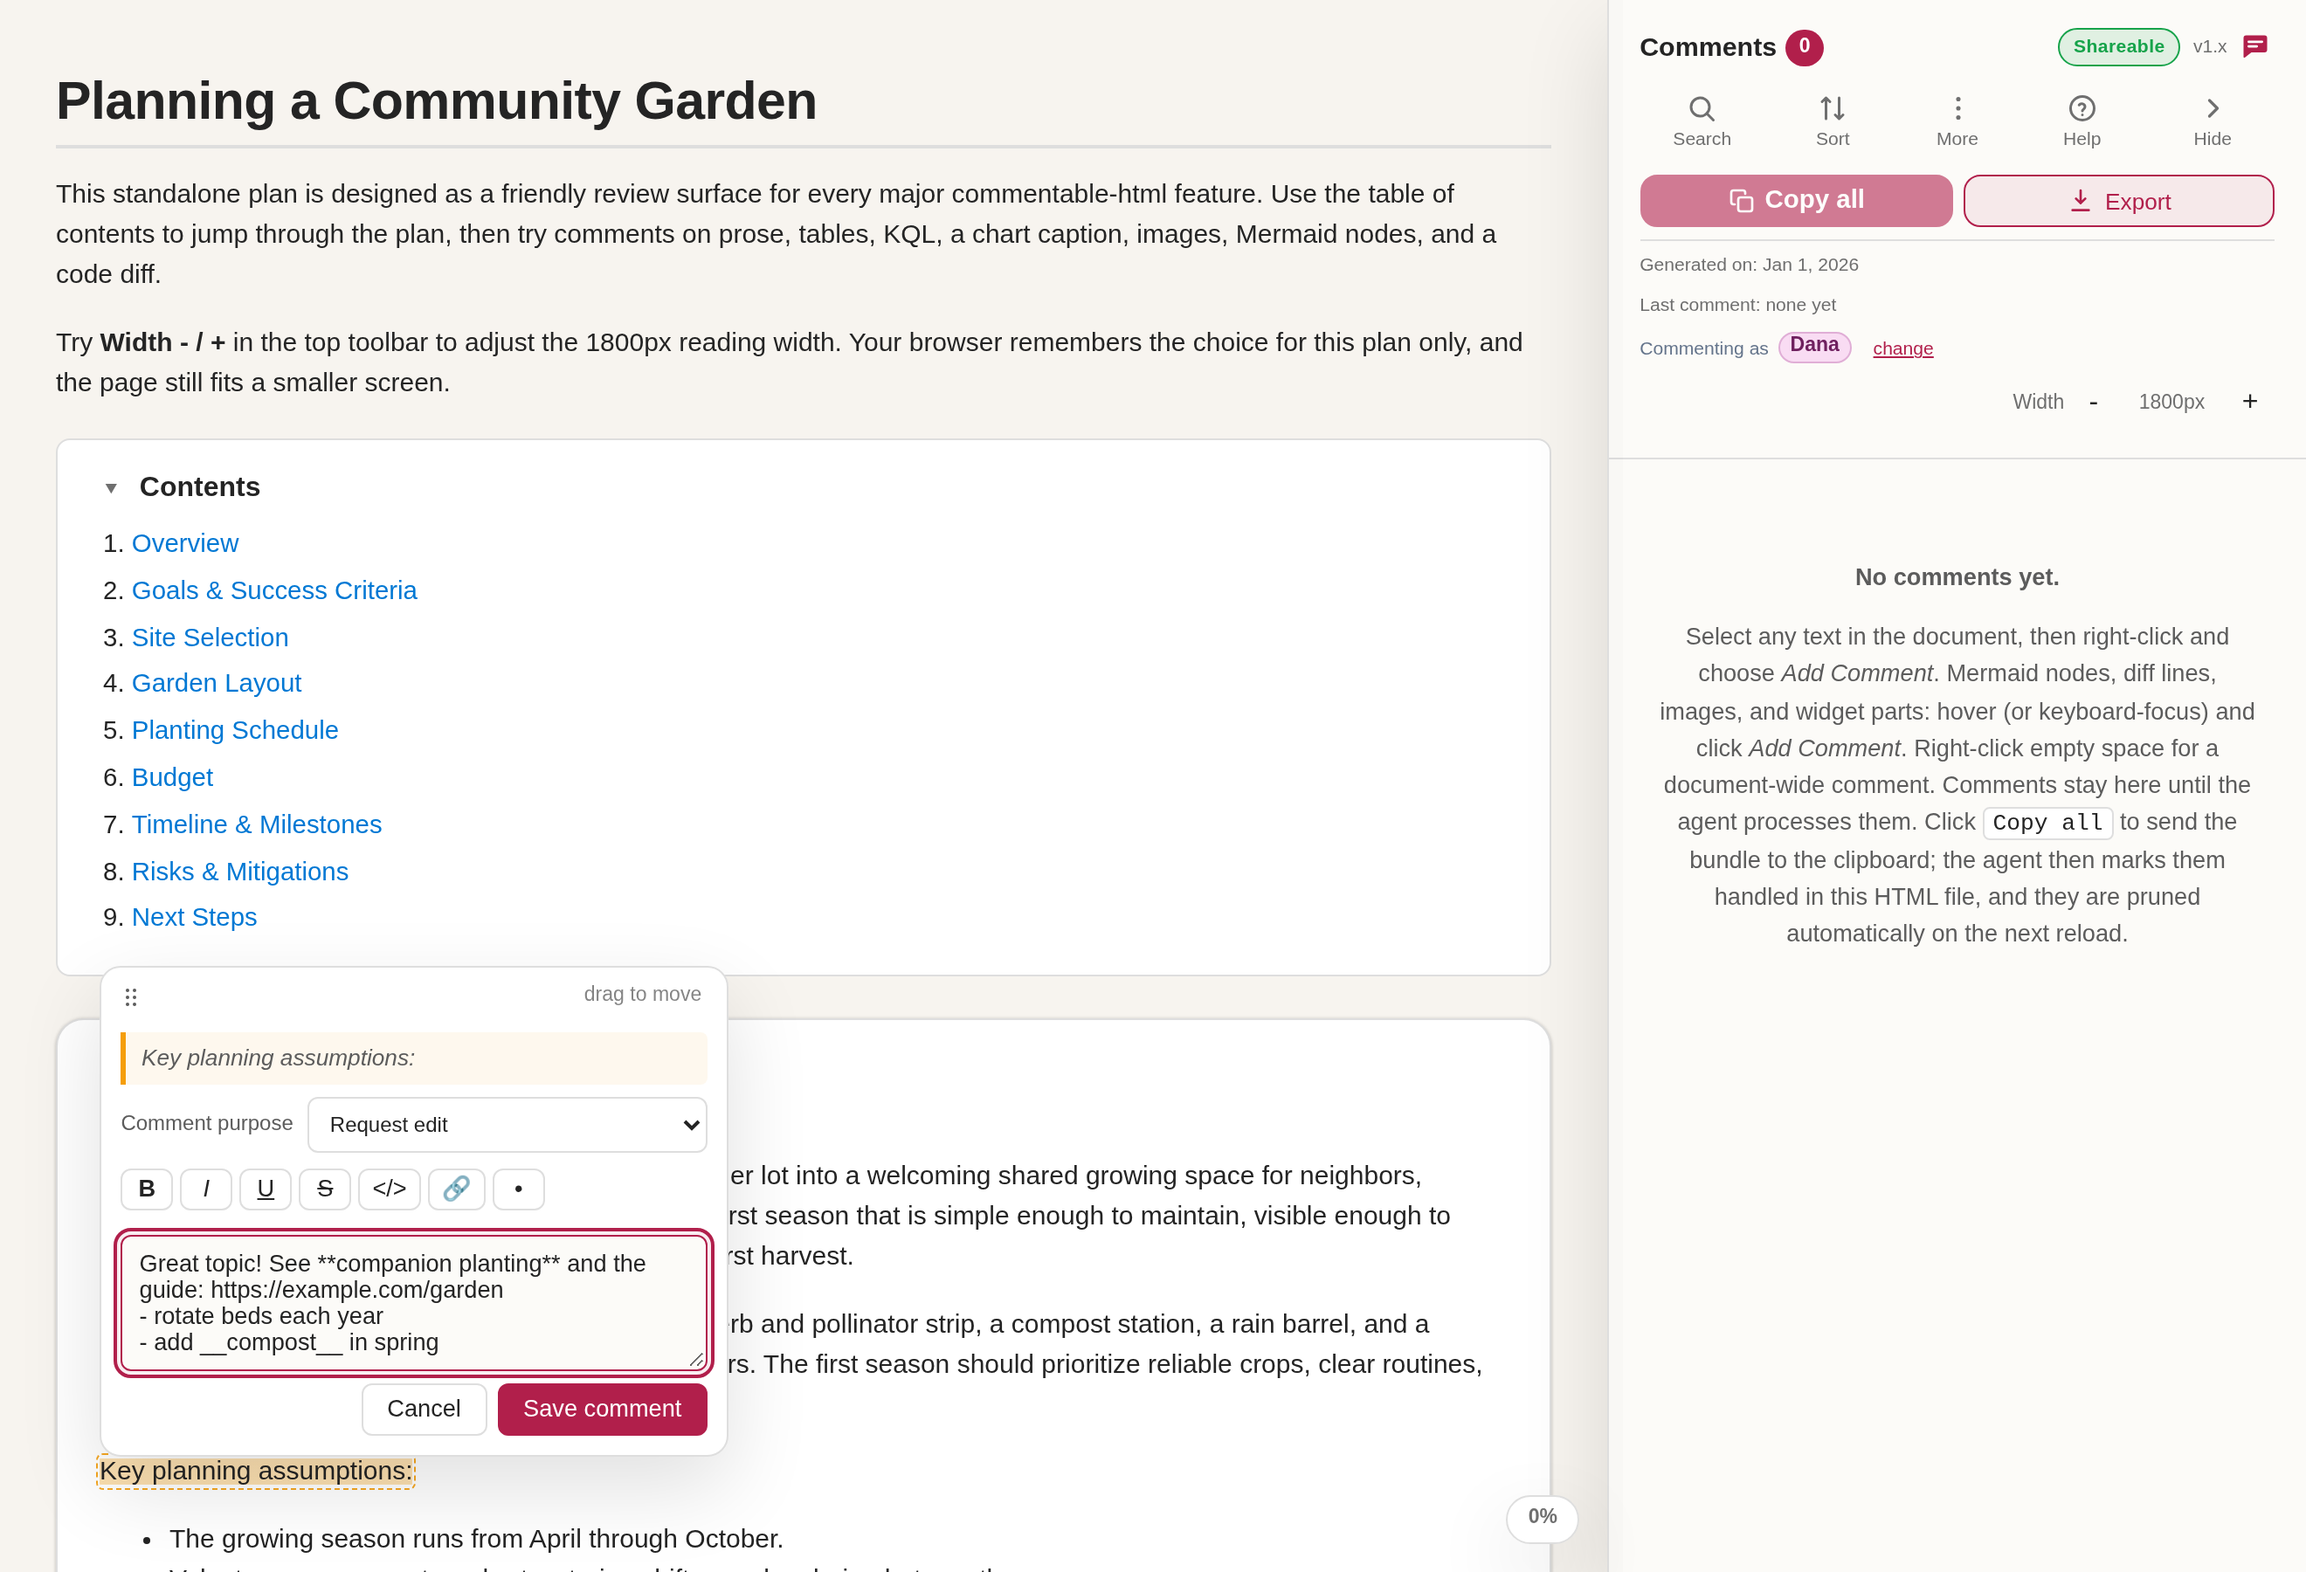
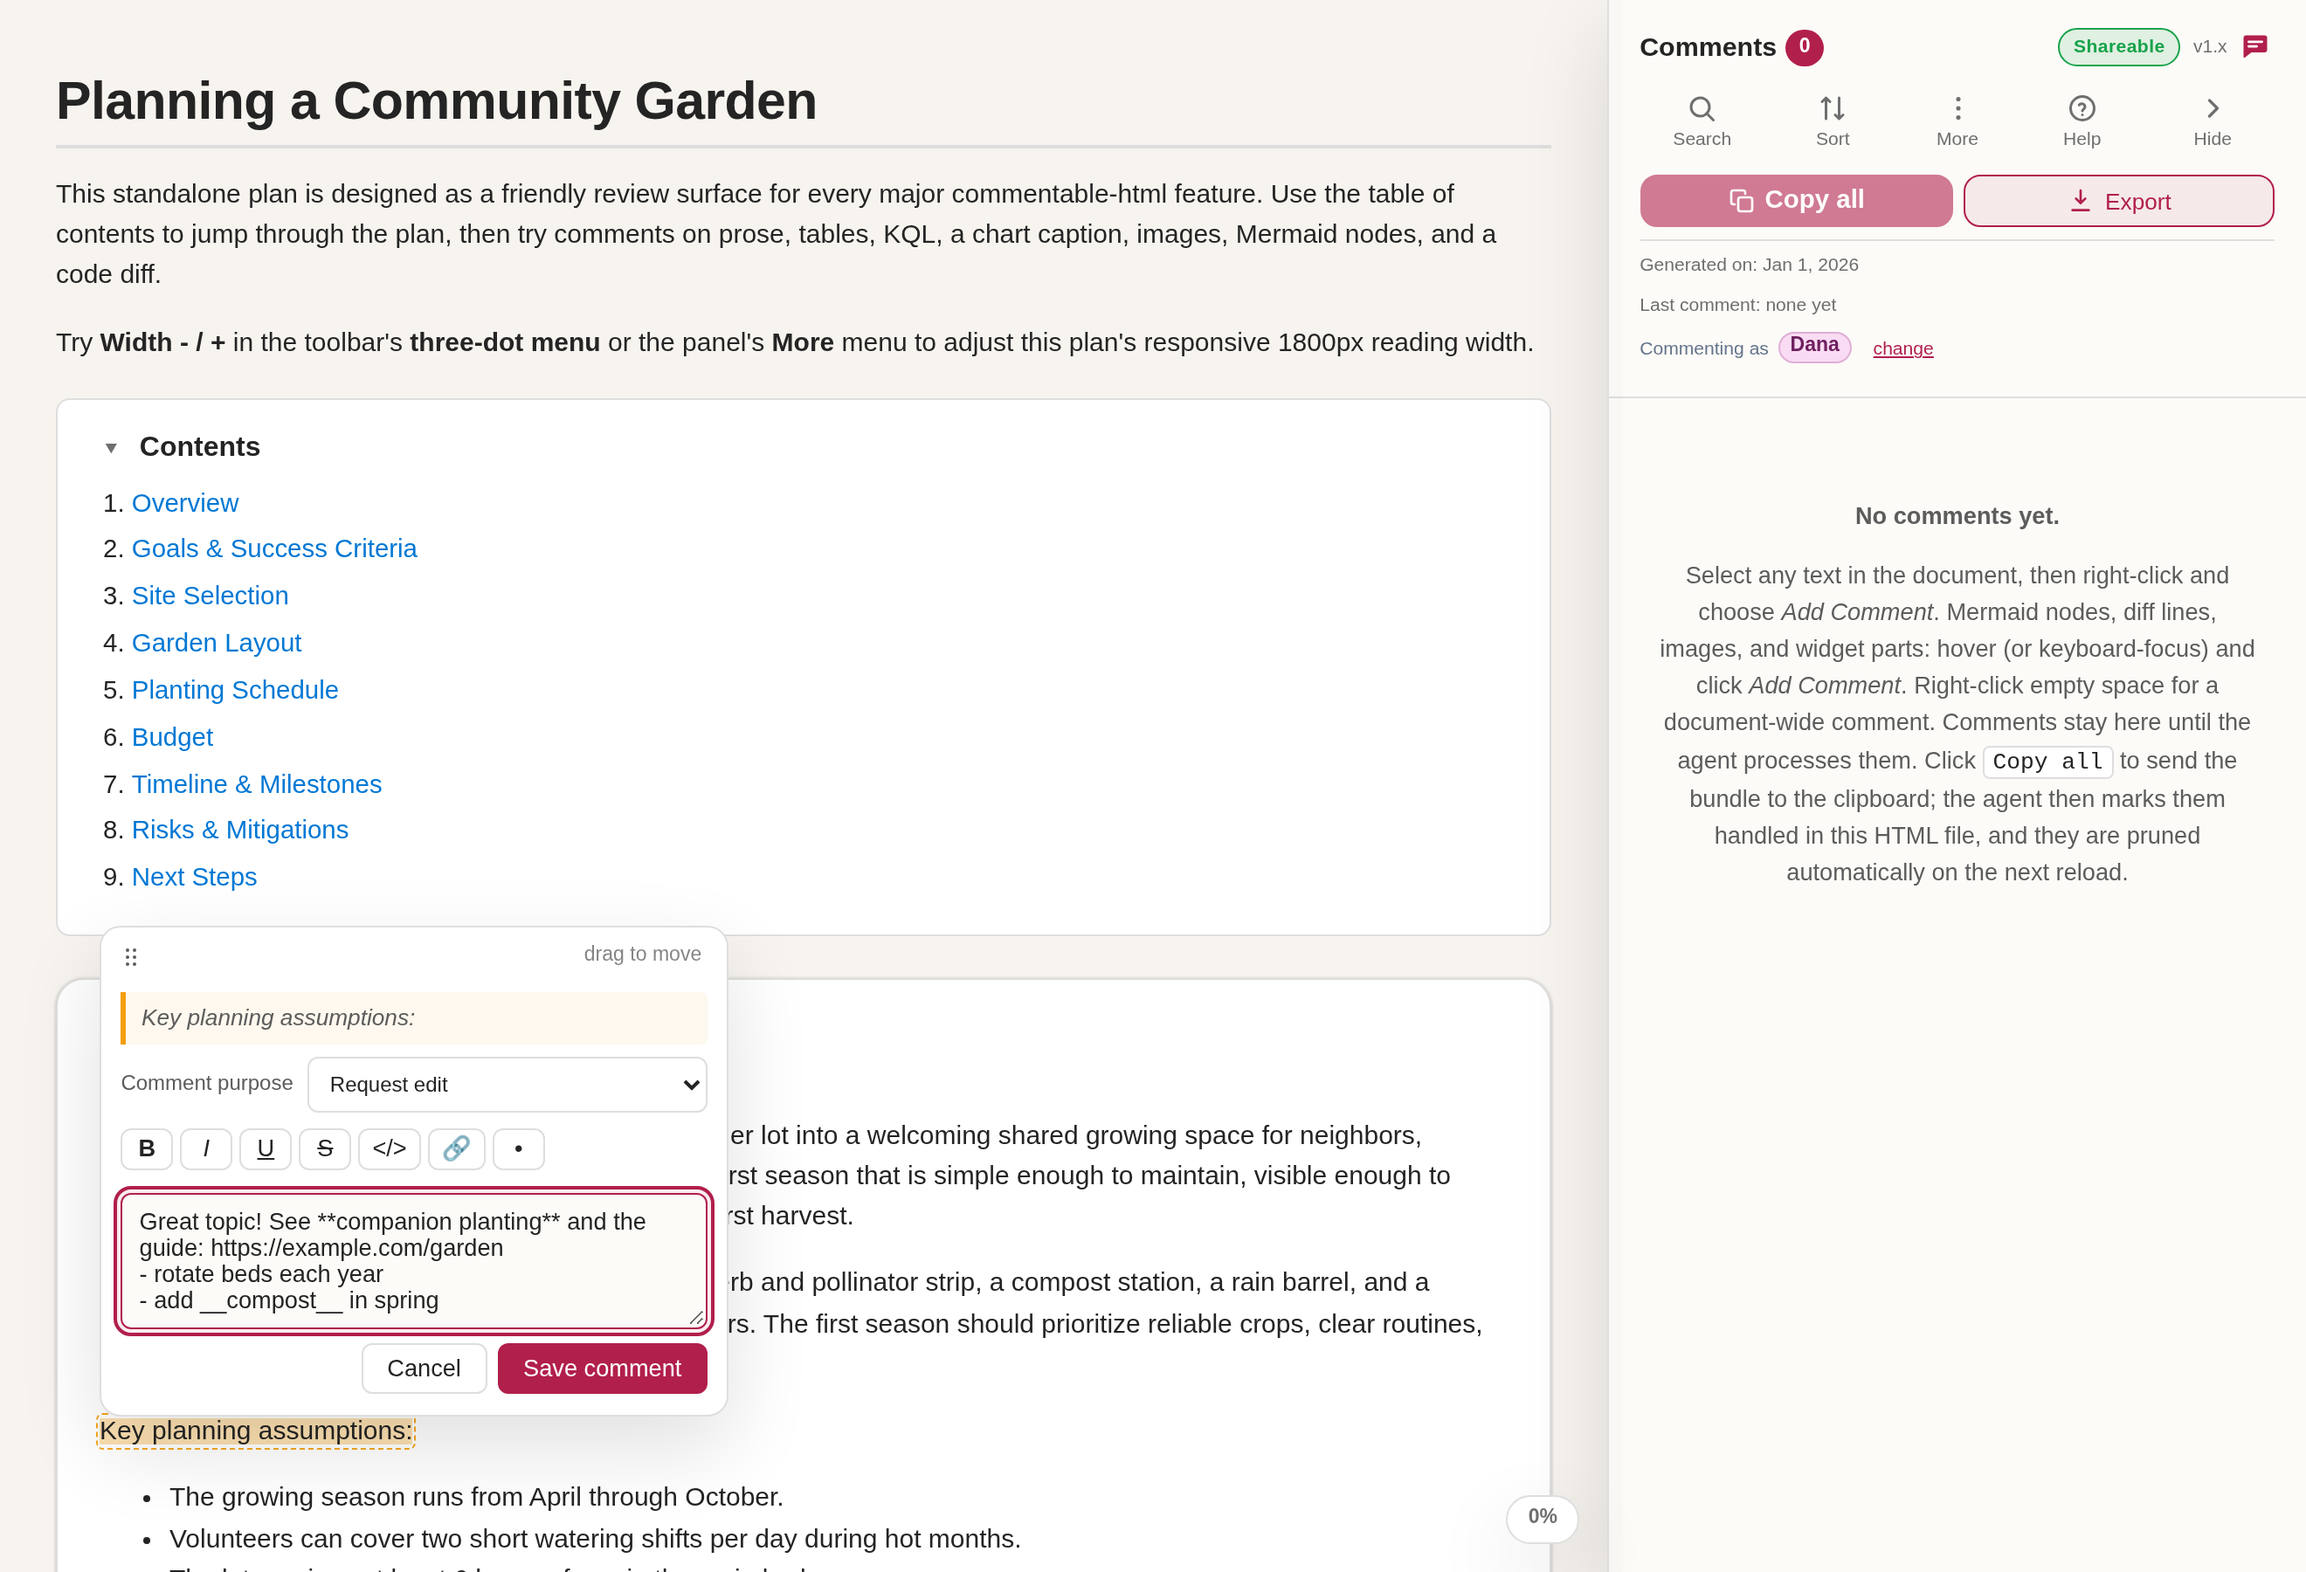
Refresh width-menu tutorial screenshots from pinned CI renderer
Copilot-Session: 8a7f62eb-842d-47a4-998d-410f942856df

diff --git a/site/dist/commentable-html/tutorial/index.html b/site/dist/commentable-html/tutorial/index.html
@@ -73,7 +73,7 @@
           <li>If the comments panel is not already open, click <strong>Comments</strong> in the floating toolbar (upper right). Once the panel is open the toolbar is hidden; close the panel with the <strong>Hide</strong> button at the top of the panel.</li>
           <li>Scroll through the plan once to see its sections and the in-page Contents list.</li>
           </ol>
-          <p><img src="assets/garden-01-top-light.png?v=307abe64a617" alt="The community garden plan open in a browser, with the Contents list and the floating toolbar" loading="lazy" /></p>
+          <p><img src="assets/garden-01-top-light.png?v=79665328896f" alt="The community garden plan open in a browser, with the Contents list and the floating toolbar" loading="lazy" /></p>
           <h3>2. Read the document-type bubble and version</h3>
           <ol>
           <li>In the sidebar header, look at the document-type bubble.</li>
@@ -88,8 +88,8 @@
           <li>Type a note, then click Save or press Ctrl+Enter.</li>
           <li>The selected text is highlighted and a card appears in the sidebar.</li>
           </ol>
-          <p><img src="assets/garden-05-composer.png?v=93784fb7c732" alt="The comment composer open on a selected phrase, with the quoted text and a note field" loading="lazy" /></p>
-          <p><img src="assets/garden-06-comment-saved.png?v=5cb11216a862" alt="The saved comment highlighted in the text with its card in the sidebar" loading="lazy" /></p>
+          <p><img src="assets/garden-05-composer.png?v=b4d88bf6cf50" alt="The comment composer open on a selected phrase, with the quoted text and a note field" loading="lazy" /></p>
+          <p><img src="assets/garden-06-comment-saved.png?v=09aeed17956b" alt="The saved comment highlighted in the text with its card in the sidebar" loading="lazy" /></p>
           <h3>4. Comment on a table cell</h3>
           <ol>
           <li>Go to <strong>Garden Layout</strong>.</li>
@@ -169,9 +169,9 @@
           <li>Wrap the current selection by clicking a toolbar button or pressing a shortcut: <code>Ctrl/Cmd+B</code> for <code>**bold**</code>, <code>Ctrl/Cmd+I</code> for <code>*italic*</code>, <code>Ctrl/Cmd+U</code> for <code>__underline__</code>, and <code>Ctrl/Cmd+K</code> to turn the selection into a link. Start a line with <code>- </code> for a bullet list, wrap text in backticks for inline code, and use <code>~~text~~</code> for strikethrough.</li>
           <li>Type or paste a bare <code>http(s)://</code> address and it becomes clickable on its own. Only <code>http</code>, <code>https</code>, and <code>mailto</code> links are made clickable; anything else stays plain text.</li>
           </ol>
-          <p><img src="assets/garden-15-format-toolbar.png?v=b2d35209c8e0" alt="The comment composer with its formatting toolbar above a note being written with bold text, a link, and a bullet list" loading="lazy" /></p>
+          <p><img src="assets/garden-15-format-toolbar.png?v=9e5ca808c5a1" alt="The comment composer with its formatting toolbar above a note being written with bold text, a link, and a bullet list" loading="lazy" /></p>
           <p>Once saved, the note renders its formatting in the sidebar card and the inline popover, while the stored note keeps the exact text you typed - so <strong>Copy all</strong> still hands the agent the raw markers.</p>
-          <p><img src="assets/garden-16-rich-card.png?v=71780928c7b3" alt="A saved comment card in the sidebar showing bold text, a clickable link, and a bullet list" loading="lazy" /></p>
+          <p><img src="assets/garden-16-rich-card.png?v=1812b15ffb42" alt="A saved comment card in the sidebar showing bold text, a clickable link, and a bullet list" loading="lazy" /></p>
           <h3>13. Track review progress per section</h3>
           <p>Every section heading carries a small review badge so you can mark sections as you finish them and see at a glance what is left.</p>
           <ol>
@@ -194,7 +194,7 @@
           <li>Click the <strong>Search</strong> button in the header ribbon to reveal the search field (it is hidden by default); type to filter the list to comments whose <strong>note</strong> matches your query, and the field shows how many of the total are shown. Click <strong>Search</strong> again to hide it, or the clear (X) button to empty it.</li>
           <li>Use the <strong>Sort</strong> button in the header ribbon to cycle the order: document position, then newest-first, then oldest-first, then back to document order; its icon and tooltip reflect the current state.</li>
           </ol>
-          <p><img src="assets/garden-13-comment-search.png?v=c50dd2432286" alt="The comments panel filtered by a search query, with the sort controls and a shown-of-total count" loading="lazy" /></p>
+          <p><img src="assets/garden-13-comment-search.png?v=07f2878eac06" alt="The comments panel filtered by a search query, with the sort controls and a shown-of-total count" loading="lazy" /></p>
           <h3>16. Set your name and reply in threads</h3>
           <p>When you pass a document back and forth with someone else, attribute each comment and hold a conversation in threads.</p>
           <ol>
@@ -204,7 +204,7 @@
           <li>Deleting the original comment removes the whole thread; deleting a single reply removes only that reply.</li>
           <li><strong>Copy all</strong>, Markdown export, and the print appendix keep threads together: each is emitted as an initial comment followed by its labelled replies, so the agent reads the refinements in context.</li>
           </ol>
-          <p><img src="assets/garden-14-thread.png?v=2b91bf3241d8" alt="The comments panel showing the Commenting as control and a comment thread with two author pills and a reply" loading="lazy" /></p>
+          <p><img src="assets/garden-14-thread.png?v=e6b05aa96b9c" alt="The comments panel showing the Commenting as control and a comment thread with two author pills and a reply" loading="lazy" /></p>
           <h3>17. Hand your comments back</h3>
           <p>Use a discussion to understand a decision before asking the AI to change it:</p>
           <ol>
@@ -220,7 +220,7 @@
           <li>This copies every comment as a Markdown bundle: where each comment is, the quoted text, and your note, ending with a machine-readable handled-ids line.</li>
           <li>Paste the bundle back to the agent. It applies ordinary edit requests and marks those handled, answers pending questions in their discussions, and edits for explicit discussion commands only. Discussion history is retained.</li>
           </ol>
-          <p><img src="assets/garden-09-copyall.png?v=0f5d4bffaea5" alt="The Copy all action with the comments panel populated" loading="lazy" /></p>
+          <p><img src="assets/garden-09-copyall.png?v=50c5b2afb655" alt="The Copy all action with the comments panel populated" loading="lazy" /></p>
           <h3>18. Export, manage storage, and delete comments</h3>
           <p>The comments panel header gathers the ways to save, share, and manage the review.</p>
           <ol>
@@ -230,7 +230,7 @@
           <li>The <strong>More</strong> menu also holds <strong>Delete all comments</strong>, which removes every comment (after a confirmation) so you can start the review over.</li>
           <li>Every time the panel shows - a comment&#x27;s timestamp, <strong>Generated on</strong>, <strong>Last comment</strong>, the footer, the Copy all bundle, and the printed appendix - names the timezone it is in, so two reviewers in different places read the same comment the same way. Under <strong>More &gt; Preferences</strong>, <strong>Show times in UTC</strong> switches all of them to UTC instead of your computer&#x27;s local zone; it applies straight away, with no reload, and is your setting for every commentable-html document in this browser.</li>
           </ol>
-          <p><img src="assets/garden-12-export-menu.png?v=9f8dedc28b46" alt="The sidebar export menu open, listing Shareable, Offline, Markdown, Plain HTML, and PDF" loading="lazy" /></p>
+          <p><img src="assets/garden-12-export-menu.png?v=0e2b2d79a7c6" alt="The sidebar export menu open, listing Shareable, Offline, Markdown, Plain HTML, and PDF" loading="lazy" /></p>
           <h3>19. Refresh and repeat</h3>
           <p>Discussion history remains visible after answering: look for <strong>Answered</strong>, <strong>Awaiting answer</strong>, or <strong>Edit requested</strong>. <strong>Needs owner handoff / AI reply</strong> stays visible while any current question has no matching AI answer, even if the thread also has a command. It means <strong>unanswered</strong>, not &quot;the AI has never seen this&quot;: Copy and export are not AI-read receipts. The owner can paste requests or have the AI read the exported HTML. Only a persisted answer matching the question&#x27;s current id/version clears it; editing or asking again reopens it. Discussion ids are never pruned as handled edit comments.</p>
           <p>With explicit owner consent, a scheduled prompt can answer pending questions in one named HTML file without changing authored content. Commands still wait for the owner, and browser-only comments still need Copy/import or export. The agent must never create that schedule automatically.</p>
@@ -252,7 +252,7 @@
           <p><img src="assets/triage-01-board.png?v=82818aa67ded" alt="An incident triage board with cards arranged in status columns" loading="lazy" /></p>
           <h3>Dark theme</h3>
           <p>The layer follows your browser or OS theme and stays readable in both. Everything above works identically in dark mode.</p>
-          <p><img src="assets/garden-08-top-dark.png?v=4d36c6e8e927" alt="The community garden plan in dark theme" loading="lazy" /></p>
+          <p><img src="assets/garden-08-top-dark.png?v=2641ceb419a0" alt="The community garden plan in dark theme" loading="lazy" /></p>
           <h3>Help and About</h3>
           <p>Commentable HTML has a built-in reference for every control, gesture, and keyboard shortcut. Open it whenever you want the full picture.</p>
           <ol>
